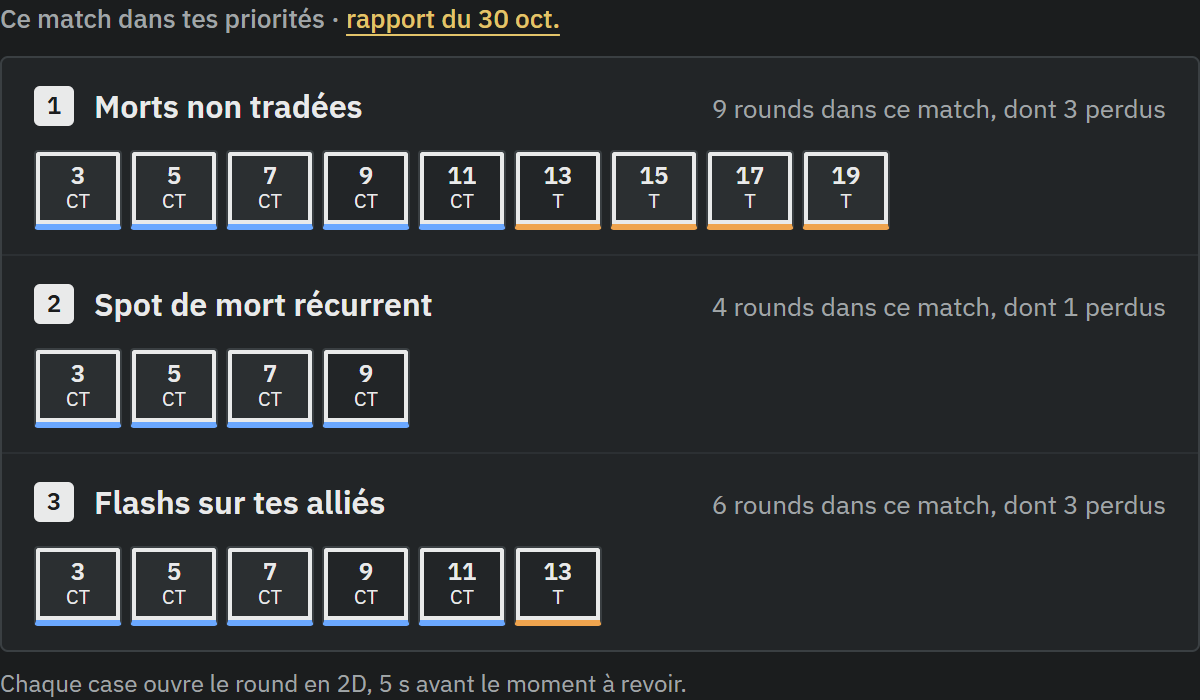
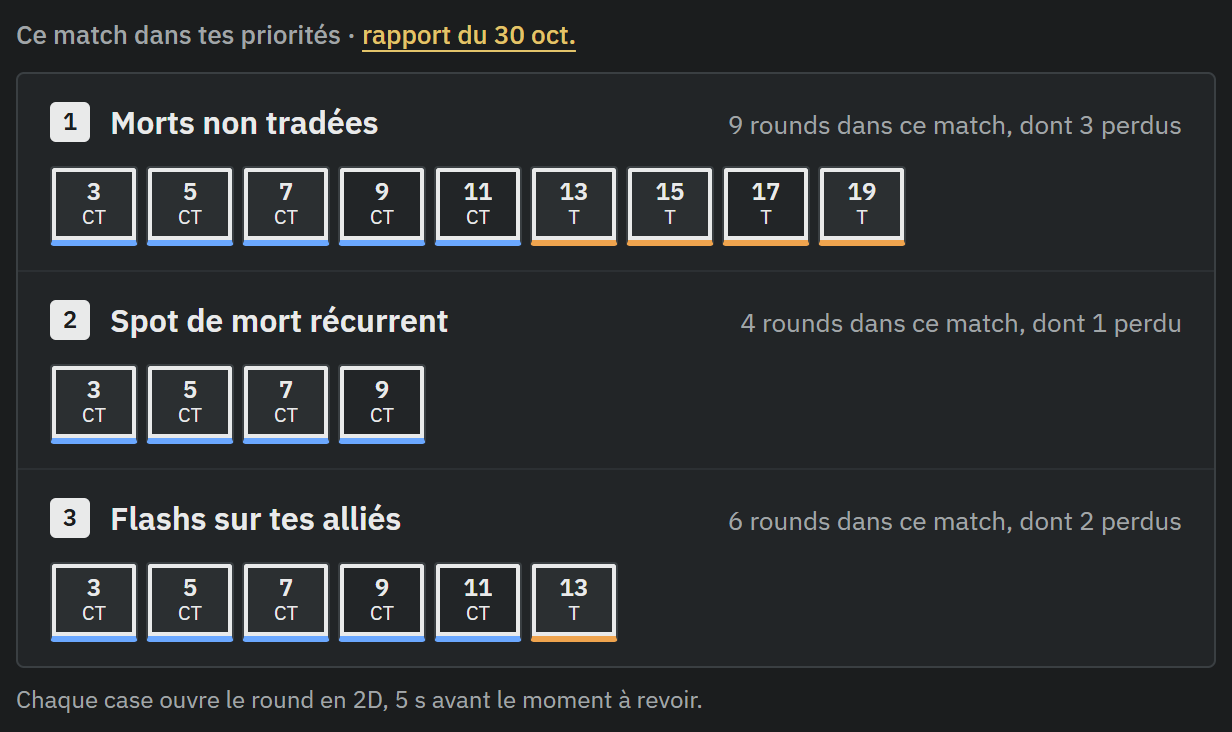
fix(web): review of the landing screenshots, and a lost round agrees in French
- The rating card is captured whole, with a little of the page around it, like the priorities.
- The viewer drops the empty bands above and below the radar, at a moment where no labels collide.
- "dont 1 perdu": the lost rounds take an ICU plural in French (match priorities, home page, sessions).

diff --git a/apps/web/src/components/landing.tsx b/apps/web/src/components/landing.tsx
@@ -16,11 +16,11 @@ const GITHUB = "https://github.com/untraded/untraded";
 const FAQ = ["free", "modes", "faceit", "cheat", "rating", "selfhost"] as const;
 
 /** Screenshots of the site, rendered on invented data (no Valve image): captured at twice a
- * 600 px wide column, sharp on high-density screens. Their size keeps the layout still. */
+ * 600 px wide column (with a little of the page around), sharp on high-density screens. Their size keeps the layout still. */
 const SHOTS = {
-  viewer: { width: 1200, height: 1898 },
-  priorities: { width: 1200, height: 700 },
-  rating: { width: 1200, height: 546 },
+  viewer: { width: 1232, height: 1722 },
+  priorities: { width: 1232, height: 732 },
+  rating: { width: 1232, height: 578 },
 } as const;
 
 function Shot({
